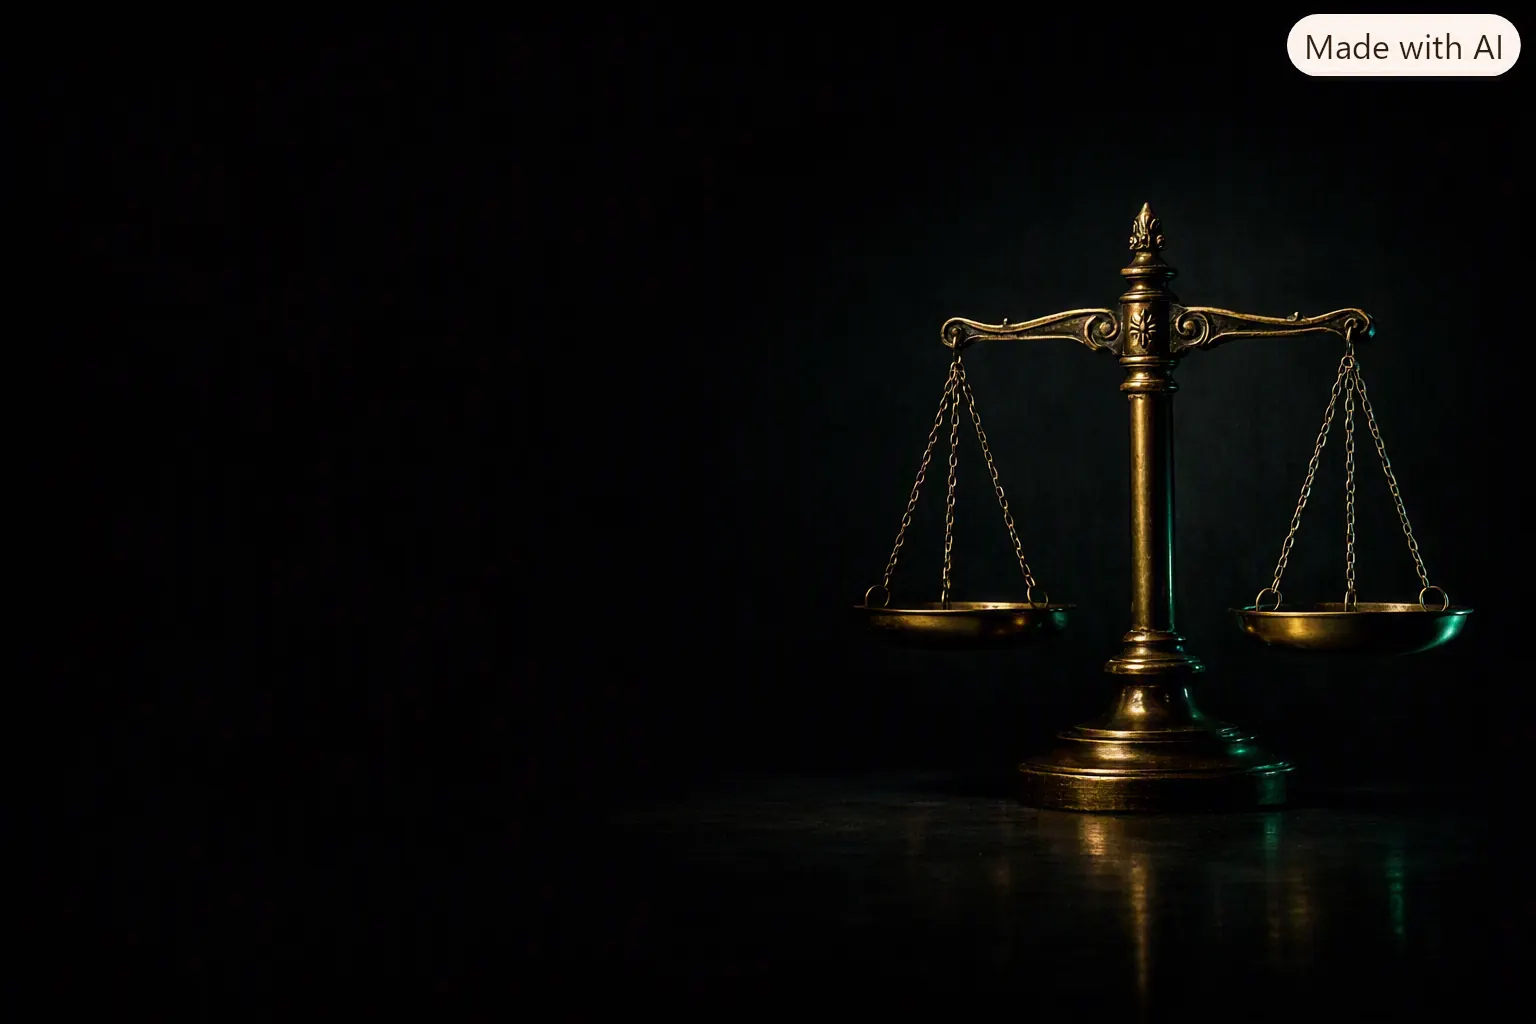
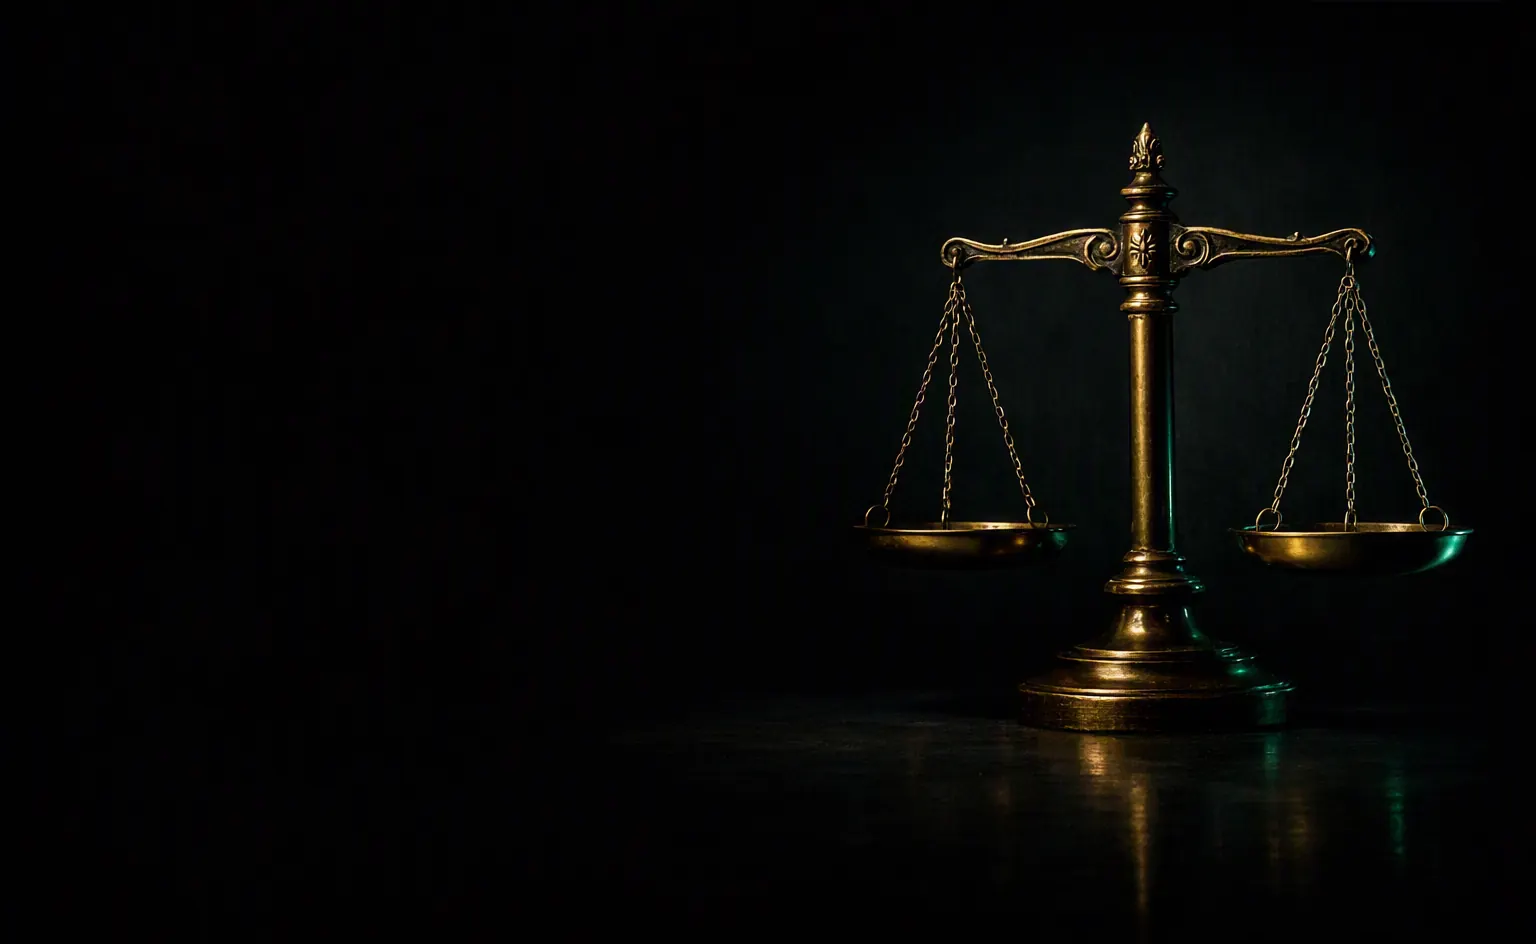
Redeploy

Changed region(s): [[0.5625, 0.1229, 0.9688, 0.8602], [0.8125, 0.0, 1.0, 0.0922]]

diff --git a/src/app/platform/login/page.tsx b/src/app/platform/login/page.tsx
@@ -1,117 +1,26 @@
-"use client";
+// ─────────────────────────────────────────────────────────────────────────────
+// THE SECOND DOOR, CLOSED.
+//
+// There used to be two sign-in pages: /login for a lender's staff and this one
+// for the founder. They asked the same two questions and differed only in which
+// table they checked, which meant the person who owns the platform had to
+// remember which URL made his password work.
+//
+// There is now ONE door. /api/auth/login checks the PlatformAdmin table first
+// and, on a match, issues the platform session and answers `/platform`; every
+// other credential is a staff sign-in and lands on `/suite`. See the comment in
+// that route for why the platform check comes first even though the founder is
+// also an Org Admin in six organisations.
+//
+// This path stays alive as a REDIRECT rather than a 404, because it is in
+// bookmarks and in older credential emails, and because PlatformBoard bounces
+// here on a 401. Deleting it would turn "your session expired" into "page not
+// found" for exactly the person who cannot ask anyone for help.
+// ─────────────────────────────────────────────────────────────────────────────
+import { redirect } from "next/navigation";
 
-// /platform/login — the apex door for lms.birgenai.com. Two audiences meet here:
-//   • the platform operator signs in (separate identity, separate cookie) and is
-//     taken to /platform to pick a console;
-//   • a prospective lender (Mular, and others) clicks "Create your organization"
-//     and self-onboards at /onboard.
-// Branded "BirgenAI LMS": this is the apex operator door on lms.birgenai.com, and
-// a nameless "LMS Platform" reads like a template someone forgot to fill in. The
-// LENDER consoles stay white-label (their logo, their accent); the platform floor
-// underneath them is ours and says so.
-import { useState } from "react";
-import Link from "next/link";
-import { useRouter } from "next/navigation";
-import { motion } from "framer-motion";
-import { Loader2, AlertTriangle, ArrowRight, Mail, Lock, Building2, ShieldCheck } from "lucide-react";
+export const dynamic = "force-static";
 
-export default function PlatformLogin() {
-  const router = useRouter();
-  const [email, setEmail] = useState("");
-  const [password, setPassword] = useState("");
-  const [loading, setLoading] = useState(false);
-  const [error, setError] = useState<string | null>(null);
-
-  const submit = async (e: React.FormEvent) => {
-    e.preventDefault();
-    setError(null); setLoading(true);
-    try {
-      const res = await fetch("/api/platform/auth/login", {
-        method: "POST", headers: { "Content-Type": "application/json" },
-        body: JSON.stringify({ email, password }),
-      });
-      // A cold backend can answer with an HTML error page, not JSON — guard the parse
-      // so a reachability blip never masquerades as a wrong password.
-      const data = await res.json().catch(() => null);
-      if (res.status === 503 || data?.wakingUp) {
-        setError(data?.message || "The service is waking up — please try again in a moment."); return;
-      }
-      if (!data) { setError("Couldn't reach the sign-in service. Please try again in a moment."); return; }
-      if (!data.success) { setError(data.message || "Sign-in failed."); return; }
-      router.replace("/platform");
-    } catch { setError("Couldn't reach the sign-in service. Please try again in a moment."); } finally { setLoading(false); }
-  };
-
-  const wrap = "flex items-center gap-2 rounded-lg border border-zinc-900/15 bg-white/80 px-3";
-  const input = "flex-1 bg-transparent outline-none text-sm py-3 placeholder:text-zinc-400";
-
-  return (
-    <div className="min-h-screen relative text-zinc-900">
-      <div aria-hidden className="fixed inset-0 z-0 bg-[url('/images/white-background.png')] bg-cover bg-center" />
-      {/* Soft brand aurora so the apex feels considered, not a bare form */}
-      <div aria-hidden className="pointer-events-none fixed -top-32 left-1/2 z-0 h-[38rem] w-[38rem] -translate-x-1/2 rounded-full opacity-30 blur-3xl"
-        style={{ background: "radial-gradient(closest-side, #fb923c, #f43f5e 55%, transparent)" }} />
-
-      <div className="relative z-10 min-h-screen flex items-center justify-center px-4 py-10">
-        <motion.div
-          initial={{ opacity: 0, y: 16, scale: 0.98 }}
-          animate={{ opacity: 1, y: 0, scale: 1 }}
-          transition={{ duration: 0.45, ease: [0.16, 1, 0.3, 1] }}
-          className="glass w-full max-w-md overflow-hidden rounded-3xl bg-white/70"
-        >
-          <div aria-hidden className="h-1.5 w-full" style={{ background: "linear-gradient(90deg,#fb923c,#f43f5e)" }} />
-          <form onSubmit={submit} className="p-6 sm:p-8">
-            <div className="text-center">
-              {/* eslint-disable-next-line @next/next/no-img-element */}
-              <img src="/images/logo.png" alt="BirgenAI" className="mx-auto mb-3 h-11 w-auto object-contain" />
-              <h1 className="text-2xl font-bold tracking-tight">BirgenAI LMS</h1>
-              <p className="mt-1.5 text-sm text-zinc-500">The lending operating system. Sign in to your platform.</p>
-            </div>
-
-            {error && (
-              <div className="mt-4 flex items-start gap-2 rounded-lg border border-red-300 bg-red-50/90 px-3 py-2.5 text-sm text-red-700">
-                <AlertTriangle className="h-4 w-4 mt-0.5 shrink-0" /> {error}
-              </div>
-            )}
-
-            <div className="mt-5 space-y-3">
-              <div className={wrap}><Mail className="h-4 w-4 text-zinc-400 shrink-0" />
-                <input className={input} inputMode="email" autoComplete="username" placeholder="Email"
-                  value={email} onChange={(e) => setEmail(e.target.value)} />
-              </div>
-              <div className={wrap}><Lock className="h-4 w-4 text-zinc-400 shrink-0" />
-                <input className={input} type="password" autoComplete="current-password" placeholder="Password"
-                  value={password} onChange={(e) => setPassword(e.target.value)} />
-              </div>
-            </div>
-
-            <button type="submit" disabled={loading || !email || !password}
-              className="mt-5 w-full inline-flex items-center justify-center gap-2 rounded-lg bg-zinc-900 px-5 py-3 text-sm font-semibold text-white hover:bg-zinc-800 disabled:opacity-60">
-              {loading ? <Loader2 className="h-4 w-4 animate-spin" /> : null} Sign in <ArrowRight className="h-4 w-4" />
-            </button>
-
-            {/* The prospect's path — a lender like Mular creates their org here */}
-            <div className="mt-6 rounded-2xl border border-zinc-900/10 bg-white/60 p-4">
-              <div className="flex items-start gap-3">
-                <div className="flex h-9 w-9 shrink-0 items-center justify-center rounded-xl bg-zinc-900/5">
-                  <Building2 className="h-4 w-4 text-zinc-500" />
-                </div>
-                <div className="min-w-0">
-                  <p className="text-sm font-semibold">New lender?</p>
-                  <p className="mt-0.5 text-xs text-zinc-500">Stand up your own branded lending platform in minutes.</p>
-                  <Link href="/onboard" className="mt-2 inline-flex items-center gap-1 text-sm font-semibold text-zinc-900 hover:gap-1.5 transition-all">
-                    Create your organization <ArrowRight className="h-3.5 w-3.5" />
-                  </Link>
-                </div>
-              </div>
-            </div>
-
-            <p className="mt-6 flex items-center justify-center gap-1.5 text-center text-[11px] text-zinc-400">
-              <ShieldCheck className="h-3 w-3" /> Infrastructure control · every action is audited
-            </p>
-          </form>
-        </motion.div>
-      </div>
-    </div>
-  );
+export default function PlatformLoginMoved() {
+  redirect("/login");
 }

diff --git a/scripts/optimize-suite-art.ts b/scripts/optimize-suite-art.ts
@@ -28,6 +28,52 @@ import sharp from "sharp";
 const DIR = "public/images/suite";
 const WRITE = process.argv.includes("--write");
 
+// ─────────────────────────────────────────────────────────────────────────────
+// THE "MADE WITH AI" BADGE, AND WHY THIS IS DETECTED RATHER THAN HARD-CODED.
+//
+// Three of the first six plates came back with a cream pill stamped into the
+// top-right corner — at x 1287–1519, y 14–75, identical on all three, because
+// the generator draws it at a fixed offset. It sits exactly where the eye lands
+// after the sign-in card, and these go on a projector in front of the client.
+//
+// Cropping the top strip is the right fix rather than painting over it: these
+// are full-bleed `cover` backgrounds, so the browser is already cropping them to
+// fit the viewport. Losing 8% off the top is invisible, whereas a painted patch
+// is a rectangle of slightly-wrong black that shows up on a good projector.
+//
+// It is DETECTED, not hard-coded to those three files, so that regenerating a
+// plate cannot silently reintroduce a badge nobody re-measured. The test is
+// deliberately narrow — a bright cluster, in the top band, on the right — and
+// the house style makes it safe: every plate is near-black by construction, so
+// the clean ones score literally ZERO pixels over the threshold, not "a few".
+// ─────────────────────────────────────────────────────────────────────────────
+
+/** Luma above which a pixel counts as "bright" on a near-black plate. */
+const BADGE_LUMA = 210;
+/** Below this many bright pixels in the search window, there is no badge. */
+const BADGE_MIN_PX = 500;
+
+async function findBadgeBottom(buf: Buffer): Promise<number | null> {
+  const { data, info } = await sharp(buf).removeAlpha().raw().toBuffer({ resolveWithObject: true });
+  const { width: W, height: H, channels: C } = info;
+  const yMax = Math.min(Math.round(H * 0.12), H);
+  const xMin = Math.floor(W * 0.75);
+
+  let bottom = -1;
+  let n = 0;
+  for (let y = 0; y < yMax; y++) {
+    for (let x = xMin; x < W; x++) {
+      const i = (y * W + x) * C;
+      const luma = 0.2126 * data[i] + 0.7152 * data[i + 1] + 0.0722 * data[i + 2];
+      if (luma > BADGE_LUMA) {
+        n++;
+        if (y > bottom) bottom = y;
+      }
+    }
+  }
+  return n >= BADGE_MIN_PX ? bottom : null;
+}
+
 /** Wide enough for a 2560-logical projector after the cover-crop, without upscaling past the source. */
 const WIDTH = 2048;
 
@@ -58,7 +104,21 @@ async function main() {
     const meta = await sharp(buf).metadata();
     before += buf.length;
 
-    const webp = await sharp(buf)
+    // Crop the badge off before anything else, so the resize works from clean
+    // pixels and the strip is never resampled into the output.
+    const badgeBottom = await findBadgeBottom(buf);
+    let plate: Uint8Array = buf;
+    let cropNote = "";
+    if (badgeBottom != null && meta.height) {
+      const cut = Math.min(badgeBottom + 5, Math.round(meta.height * 0.15));
+      plate = await sharp(buf)
+        .extract({ left: 0, top: cut, width: meta.width!, height: meta.height - cut })
+        .png()
+        .toBuffer();
+      cropNote = `  \x1b[33mbadge cropped (top ${cut}px)\x1b[0m`;
+    }
+
+    const webp = await sharp(plate)
       .resize({ width: WIDTH, withoutEnlargement: true })
       .webp({ quality: 78, effort: 6 })
       .toBuffer();
@@ -71,7 +131,7 @@ async function main() {
     console.log(
       `  \x1b[32m✓\x1b[0m ${target.padEnd(18)} ${String(meta.width).padStart(4)}×${String(meta.height).padEnd(5)} ` +
         `${(buf.length / 1024 / 1024).toFixed(2)}MB → ${(webp.length / 1024).toFixed(0)}kB  ` +
-        `\x1b[2m${saved.toFixed(0)}% smaller${source !== `${target}.png` ? `  (from ${source})` : ""}\x1b[0m`,
+        `\x1b[2m${saved.toFixed(0)}% smaller${source !== `${target}.png` ? `  (from ${source})` : ""}\x1b[0m${cropNote}`,
     );
   }
 

diff --git a/src/app/api/auth/login/route.ts b/src/app/api/auth/login/route.ts
@@ -10,6 +10,7 @@ import bcrypt from "bcryptjs";
 import { prisma } from "@/lib/prisma";
 import { runAsPlatform, runWithOrg } from "@/lib/db/context";
 import { createSession } from "@/lib/auth";
+import { createPlatformSession } from "@/lib/platform-auth";
 import { rateLimit, clientIp } from "@/lib/ratelimit";
 import { issueDailyLoginOtp, verifyDailyLoginOtp } from "@/lib/otp";
 import { withDbRetry, isTransientDbError, wakingUpResponse } from "@/lib/db/retry";
@@ -48,6 +49,36 @@ export async function POST(req: NextRequest) {
   // and we have no tenant identity until the credentials check out. This is one
   // of the few legitimate platform-scoped reads. (orgSlug disambiguates.)
   return await runAsPlatform(async () => {
+    // ── ONE DOOR, TWO KINDS OF PERSON ────────────────────────────────────────
+    //
+    // The platform administrator is checked FIRST, and the check is the
+    // PlatformAdmin table rather than a hard-coded address — the table has
+    // exactly one row today, and "whoever is in it" is the rule that stays true
+    // when that changes. Nobody else can reach /platform however their staff
+    // rights are configured, because no staff row grants it.
+    //
+    // WHY FIRST, given this email is ALSO an Org Admin in six orgs: from the
+    // sign-in card the founder wants the estate, not one tenant's console. The
+    // way into a specific org is /platform → "Enter console", which is audited
+    // impersonation and carries a permanent banner. Landing him straight in
+    // Micromart would be the one path that touches a lender's book with no
+    // record of why.
+    //
+    // A wrong password here does NOT short-circuit: it falls through to the
+    // staff lookup and fails there with the same uniform message, so this branch
+    // reveals nothing about which accounts are platform accounts.
+    if (!body.orgSlug) {
+      const admin = await withDbRetry(() => prisma.platformAdmin.findUnique({ where: { email } }));
+      if (admin && admin.status === "ACTIVE" && (await bcrypt.compare(password, admin.passwordHash))) {
+        await prisma.platformAdmin.update({ where: { id: admin.id }, data: { lastLoginAt: new Date() } }).catch(() => {});
+        await prisma.auditLog.create({
+          data: { orgId: null, actorId: admin.id, actorType: "platform", action: "platform.login", ip: req.headers.get("x-forwarded-for") },
+        }).catch(() => {});
+        await createPlatformSession({ id: admin.id, name: admin.name, email: admin.email });
+        return NextResponse.json({ success: true, platform: true, name: admin.name, destination: "/platform" });
+      }
+    }
+
     const staff = await withDbRetry(() => prisma.staffUser.findFirst({
       where: {
         email,
@@ -118,7 +149,12 @@ export async function POST(req: NextRequest) {
       tiers: { initiator: staff.isInitiator, authorizer: staff.isAuthorizer, validator: staff.isValidator },
     });
 
-    return NextResponse.json({ success: true, orgSlug: staff.org.slug });
+    // /suite, not /console. An organisation's people are not all lending
+    // officers — the collections supervisor, the accountant and the HR manager
+    // each have their own system, and dropping every one of them into the
+    // lending console means five of the six systems are reached by knowing a URL.
+    // The launcher shows each person exactly the doors they hold rights to.
+    return NextResponse.json({ success: true, orgSlug: staff.org.slug, destination: "/suite" });
   });
   } catch (err) {
     if (isTransientDbError(err)) return wakingUpResponse();

diff --git a/src/app/platform/PlatformBoard.tsx b/src/app/platform/PlatformBoard.tsx
@@ -66,7 +66,7 @@ export default function PlatformBoard({ adminName }: { adminName: string }) {
       const res = await fetch("/api/platform/orgs");
       const data = await res.json();
       if (!data.success) {
-        if (res.status === 401) { router.replace("/platform/login"); return; }
+        if (res.status === 401) { router.replace("/login"); return; }
         setError(data.message || "Could not load."); return;
       }
       setOrgs(data.orgs); setPlans(data.plans ?? []);
@@ -99,13 +99,18 @@ export default function PlatformBoard({ adminName }: { adminName: string }) {
       });
       const data = await res.json();
       if (!data.success) { setError(data.message || "Could not enter the console."); return; }
-      window.location.assign("/console");
+      // The launcher, not the lending console. Stepping into an organisation
+      // means stepping into ALL SIX of its systems, and which one matters
+      // depends on why you came — a collections question is answered in
+      // ConnectDesk, not in /console. The suite is the landing that offers all
+      // six; the console is one door on it.
+      window.location.assign("/suite");
     } catch { setError("Could not enter the console."); } finally { setActing(null); }
   };
 
   const signOut = async () => {
     await fetch("/api/platform/auth/login", { method: "DELETE" });
-    router.replace("/platform/login");
+    router.replace("/login");
   };
 
   // Review queue first: activation requests, then other PENDING, then the rest.

diff --git a/src/components/auth/StaffLoginCard.tsx b/src/components/auth/StaffLoginCard.tsx
@@ -92,12 +92,18 @@ export default function StaffLoginCard({ brand }: { brand?: LenderBrand | null }
       // shackle snapping shut mid-animation is the difference between a product and
       // a prototype. Only on the OTP path; a bare password sign-in has no second
       // door to open, so it goes straight through.
+      // WHERE TO SEND THEM IS THE SERVER'S DECISION, not this card's. The same
+      // form admits the platform administrator (→ /platform, the estate) and a
+      // lender's staff (→ /suite, their own doors), and only the server knows
+      // which it just authenticated. Defaulting to /suite keeps an older backend
+      // that returns no destination working.
+      const to = typeof data.destination === "string" ? data.destination : "/suite";
       if (withOtp) {
         setSealed(true);
-        setTimeout(() => router.replace("/console"), 620);
+        setTimeout(() => router.replace(to), 620);
         return;
       }
-      router.replace("/console");
+      router.replace(to);
     } catch { setError("Couldn't reach the sign-in service. Please try again in a moment."); } finally { setLoading(false); }
   };
 

diff --git a/src/app/platform/page.tsx b/src/app/platform/page.tsx
@@ -10,6 +10,6 @@ export const dynamic = "force-dynamic";
 
 export default async function PlatformPage() {
   const session = await platformAuth();
-  if (!session?.admin) redirect("/platform/login");
+  if (!session?.admin) redirect("/login");
   return <PlatformBoard adminName={session.admin.name} />;
 }

diff --git a/docs/GO-LIVE.md b/docs/GO-LIVE.md
@@ -90,6 +90,23 @@ tailscale funnel --bg 8787 # publishes it, and PRINTS THE REAL URL
 The URL it prints looks like `https://lms.tail10c441.ts.net` — that exact
 string, copied from the terminal, is what `SERVICESUITE_RELAY_URL` must be.
 
+**Funnel is enabled per NODE, and the URL is the node's name.** Enabling it for
+the laptop does not enable it for the server, and moving the relay from one to
+the other changes the hostname — so `SERVICESUITE_RELAY_URL` on Vercel has to
+change with it. Decide which machine holds the relay *before* setting the
+variable, or you will set it twice.
+
+**Does it have to be the server?** No. The host needs three things and nothing
+else: it is on the tailnet, Funnel is enabled for it, and it stays awake. A
+laptop satisfies all three — measured warm round trip through Funnel is 80–134ms,
+which is nothing next to the queries themselves. The reason to prefer an
+always-on node is not performance, it is that a laptop which sleeps, closes or
+changes network takes **all six systems degraded at once**, and the laptop is
+usually the thing being carried into the meeting.
+
+Whichever machine holds it also needs `.env` — the connection string and the
+relay secret. That is the real cost of moving it, not the Funnel setup.
+
 > ⚠ **The one mistake that looks like a total outage.** Pasting the placeholder
 > `https://<host>.<tailnet>.ts.net` from this document into Vercel leaves a
 > deployment that starts, signs people in, serves every route — and cannot read
